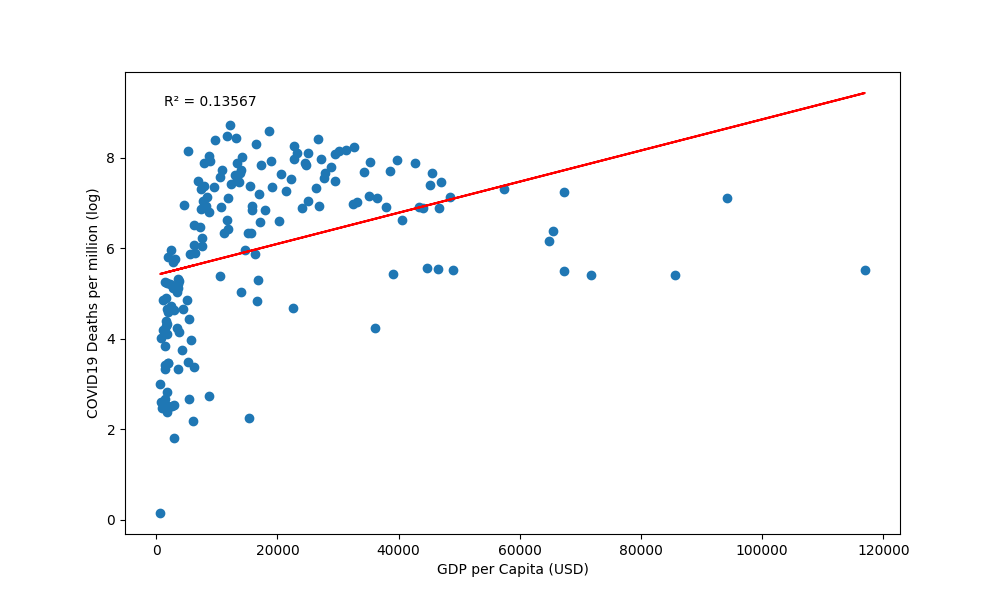
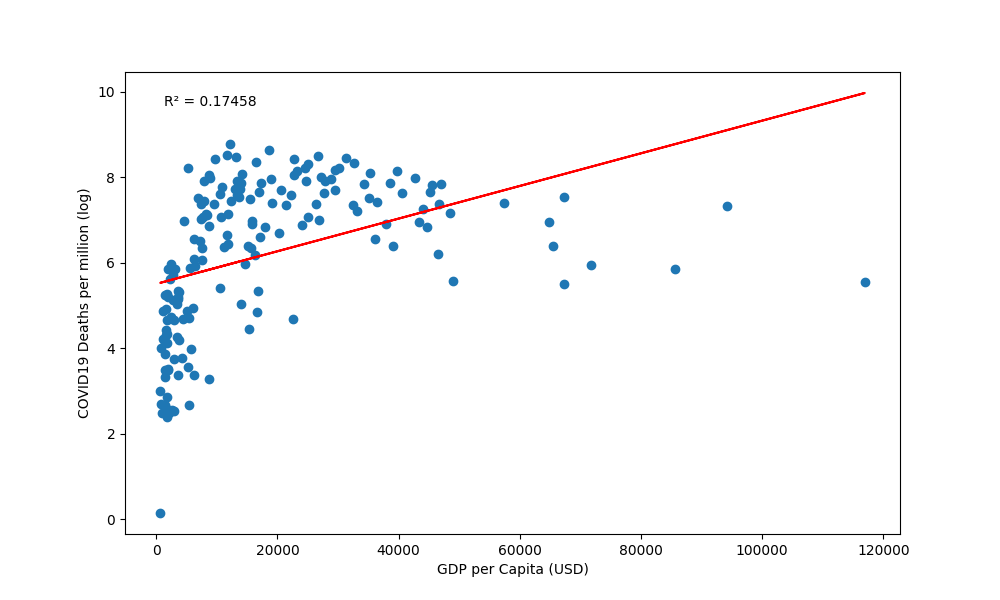
refactor: Update gitignore and add analysis for selective diseases

diff --git a/ANALYSIS/Pop_Stat_Calculation.py b/ANALYSIS/Pop_Stat_Calculation.py
@@ -64,7 +64,8 @@ class POP_STAT_CALCULATION:
             self.population_data = {country: dist for country, dist in self.population_data.items() if country not in NAN_COUNTRIES}
             self.covid_data = {country: value for country, value in self.covid_data.items() if country not in NAN_COUNTRIES}
 
-    def KL_DIVERGENCE(self,p, q):
+    @staticmethod
+    def KL_DIVERGENCE(p, q):
         p = np.asarray(p)
         q = np.asarray(q)
         
@@ -88,7 +89,8 @@ class POP_STAT_CALCULATION:
         reference_dist = self.population_data[reference_country]
         distances = {}
         for country, dist in self.population_data.items():
-            distances[country] = self.KL_DIVERGENCE(dist, reference_dist)
+            if country in self.common_countries:
+                distances[country] = self.KL_DIVERGENCE(dist, reference_dist)
         return distances
 
     def find_optimal_reference(self):

diff --git a/ANALYSIS_FOR_OTHER_DISEASES/Analysis_of_Death_Data.py b/ANALYSIS_FOR_OTHER_DISEASES/Analysis_of_Death_Data.py
@@ -104,7 +104,7 @@ class MORTALITY_DATA:
         self.PLOT_WITH_POPSTAT(DATAFRAME['POPSTAT Data'], DATAFRAME['Deaths per million'], disease)
         print(f"Data for {disease} has been plotted")
 
-    def PLOT_WITH_POPSTAT(self, X, Y, title):
+    def PLOT_WITH_POPSTAT(self, X, Y, title, saving_path=SAVING_PATH_PNG):
         X = np.array(X)
         Y = np.array(Y)
         mask = (Y > 0)
@@ -147,7 +147,7 @@ class MORTALITY_DATA:
         plt.text(0.05, 0.95, f'R² = {r_squared:.3f}',
                         transform=plt.gca().transAxes, verticalalignment='top')
         title = title.replace("/", "")
-        plt.savefig(os.path.join(SAVING_PATH_PNG, f'{title}_deaths.png'))
+        plt.savefig(os.path.join(saving_path, f'{title}_deaths.png'))
         plt.close()
 
     def ANALYZER(self):
